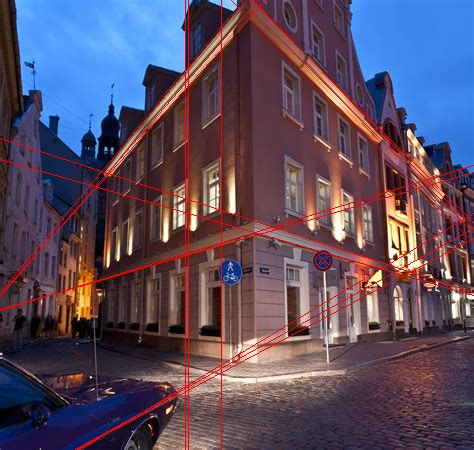
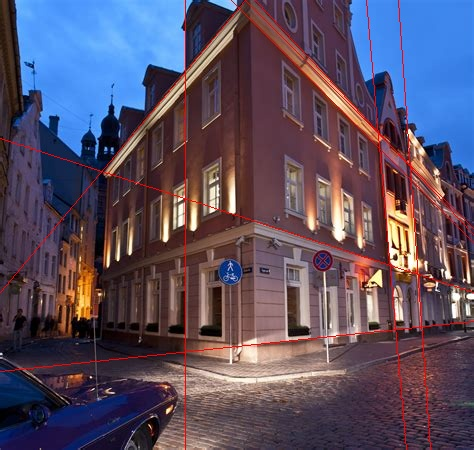
update

diff --git a/teste.py b/teste.py
@@ -37,7 +37,7 @@ def filter_lines(lines):
     #print(lines)
     i = 0
     while i < len(lines) - 1:
-        if np.abs(lines[i][0][0] - lines[i + 1][0][0]) < 20 and np.abs(lines[i][0][1] - lines[i + 1][0][1]) < 0.2:
+        if np.abs(lines[i][0][0] - lines[i + 1][0][0]) < 10 and np.abs(lines[i][0][1] - lines[i + 1][0][1]) < 0.1:
             del lines[i + 1]
         else:
             i += 1
@@ -98,54 +98,44 @@ def draw_lines(lines, filePath, image):
         cv2.line(image, (x1, y1), (x2, y2), (0, 0, 255), 1)
     cv2.imwrite('resultados2/image_lines_'+ filePath , image)
 
-def ransac_vanishing_point(lines, num_iterations, threshold , width):
 
-    best_intersection = None
-    best_count = 0
-    
+
+# Função para encontrar o ponto de fuga
+# para isso ele irá identificar os pontos e categorizando em 3 lugares diferente (direita, esquerda e centro)
+def ransac_vanishing_point(lines, num_iterations, threshold, width):
+    best_intersection = np.zeros((3, 2))  # Inicializar um array 3x2 de zeros para as melhores interseções
+    best_count = np.zeros(3, dtype=int)  # Inicializar um array de zeros para as melhores contagens
 
     for _ in range(num_iterations):
-
         line1, line2 = random.sample(list(lines), 2)
         intersection = compute_intersection(line1, line2)
         if intersection is None:
             continue
 
+        # Converta a interseção para um formato 1D se estiver em formato de coluna
+        intersection = intersection.flatten()
+
         count = 0
         for line in lines:
             if distance_point_to_line(intersection, line) < threshold:
                 count += 1
-
-        if count > best_count:
-            best_count = count
-            best_intersection = intersection
-
-
-    assert best_intersection is not None, "Não foi possível encontrar o ponto de fuga"
-    return best_intersection 
-
-#restrição para a direita
-def restrictRight(intersection, width):
-    if intersection[0] > width//2 :
-        return True
-    return False
-
-# restringe para a esquerda
-def restrictLeft(intersection, width):
-    if intersection[0] < width//2:
-        return True
-    return False
-
-# restringe para cima
-def restrictTop(intersection, height):
-    if intersection[1] < height//2:
-        return True
-    return False
-#restringe para baixo
-def restrictBottom(intersection, height):
-    if intersection[1] > height//2:
-        return True
-    return False
+        
+        # Atualizar best_count e best_intersection de acordo com a posição da interseção
+        if intersection[0] < 0 and count > best_count[0]:
+            best_count[0] = count
+            best_intersection[0] = intersection
+        elif intersection[0] > width and count > best_count[2]:
+            best_count[2] = count
+            best_intersection[2] = intersection
+        elif 0 <= intersection[0] <= width and count > best_count[1]:
+            best_count[1] = count
+            best_intersection[1] = intersection
+    
+    print("A operação")
+    print(best_count)
+    
+    best_count_not_zero = best_count != 0
+    return best_intersection[best_count_not_zero]
 
 
 def vanishing_point(filePath):
@@ -169,16 +159,16 @@ def vanishing_point(filePath):
     
     # Encontrar ponto de fuga
     print("Vanishing Point da imagem " + filePath + " : ")
-    vanishing_point = ransac_vanishing_point(lines, num_iterations, threshold , image.shape[0] )
     
-    cv2.circle(image, (int(vanishing_point[0][0]), int(vanishing_point[1][0])), 10, (0, 0, 255), -1)
-    cv2.imwrite('resultados2/ponto1' + filePath , image)
-    '''
-    # Faz borda brancas
+    vanishing_point = ransac_vanishing_point(lines, num_iterations, threshold, image.shape[1])
+
+    vanishing_point = np.array(vanishing_point)
+
     imageBorda = cv2.copyMakeBorder(image, 200, 200, 200, 200, cv2.BORDER_CONSTANT, value=[255, 255, 255])
-    cv2.circle(imageBorda, (int(vanishing_point[0][0] + 200), int(vanishing_point[1][0] + 200)), 10, (0, 0, 255), -1)
-    cv2.circle(imageBorda, (int(vanishing_point2[0][0] + 200), int(vanishing_point2[1][0] + 200)), 10, (0, 0, 255), -1)
-    cv2.imwrite('resultados2/image_borda_pontos' + filePath , imageBorda)'''
+    for vanishing in vanishing_point:
+        print(vanishing)
+        cv2.circle(imageBorda, (int(vanishing[0]+ 200) , int(vanishing[1])+ 200) , 10, (0, 0, 255), -1)
+    cv2.imwrite('resultados2/ponto1' + filePath , imageBorda)
     
 
 
@@ -199,7 +189,7 @@ def main ():
         print(f"Error: {e}")
 
     images = ["01.jpg", "02.jpg", "image1.jpeg", "image2.jpeg", "image3.jpeg", "image4.jpg", "image5.jpg", "image6.jpg", "image7.jpg", "image8.jpg"]
-    #images = ["image5.jpg"]
+    #images = ["image4.jpg"]
 
     # crie o diretório resultados2
    

diff --git a/sobel.py b/sobel.py
@@ -1,0 +1,33 @@
+import cv2
+import numpy as np
+import matplotlib.pyplot as plt
+
+# Carregar a imagem em escala de cinza
+img = cv2.imread('sua_imagem.jpg', cv2.IMREAD_GRAYSCALE)
+
+# Definir os valores de minVal e maxVal
+minVal = 50
+maxVal = 150
+
+# Aplicar o detector de bordas de Canny
+edges = cv2.Canny(img, minVal, maxVal)
+
+# Verificar a forma (shape) da imagem original e da imagem resultante
+print(f"Forma da imagem original: {img.shape}")
+print(f"Forma da imagem com bordas detectadas: {edges.shape}")
+
+# Exibir a imagem original e a imagem com as bordas detectadas
+plt.figure(figsize=(10, 5))
+
+plt.subplot(1, 2, 1)
+plt.imshow(img, cmap='gray')
+plt.title('Imagem Original')
+plt.axis('off')
+
+plt.subplot(1, 2, 2)
+plt.imshow(edges, cmap='gray')
+plt.title('Bordas Detectadas')
+plt.axis('off')
+
+plt.tight_layout()
+plt.show()
